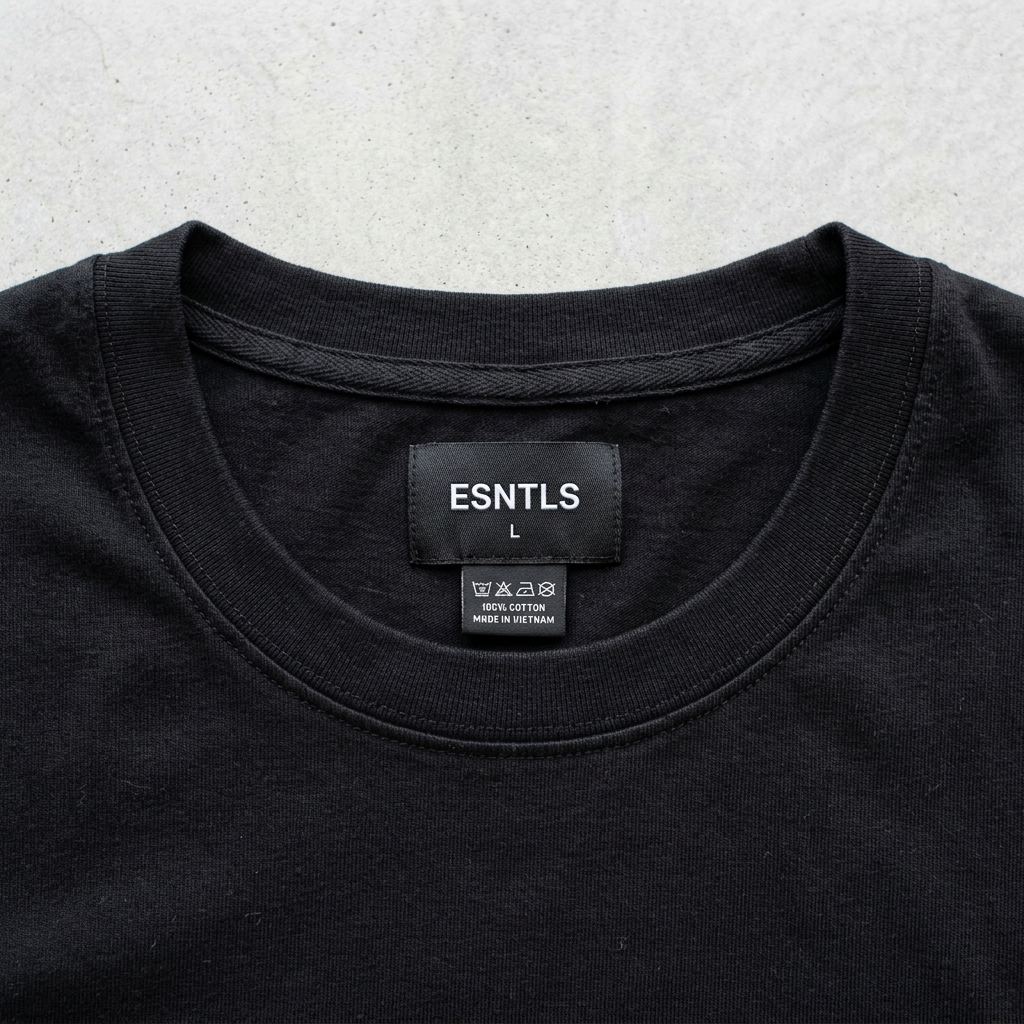
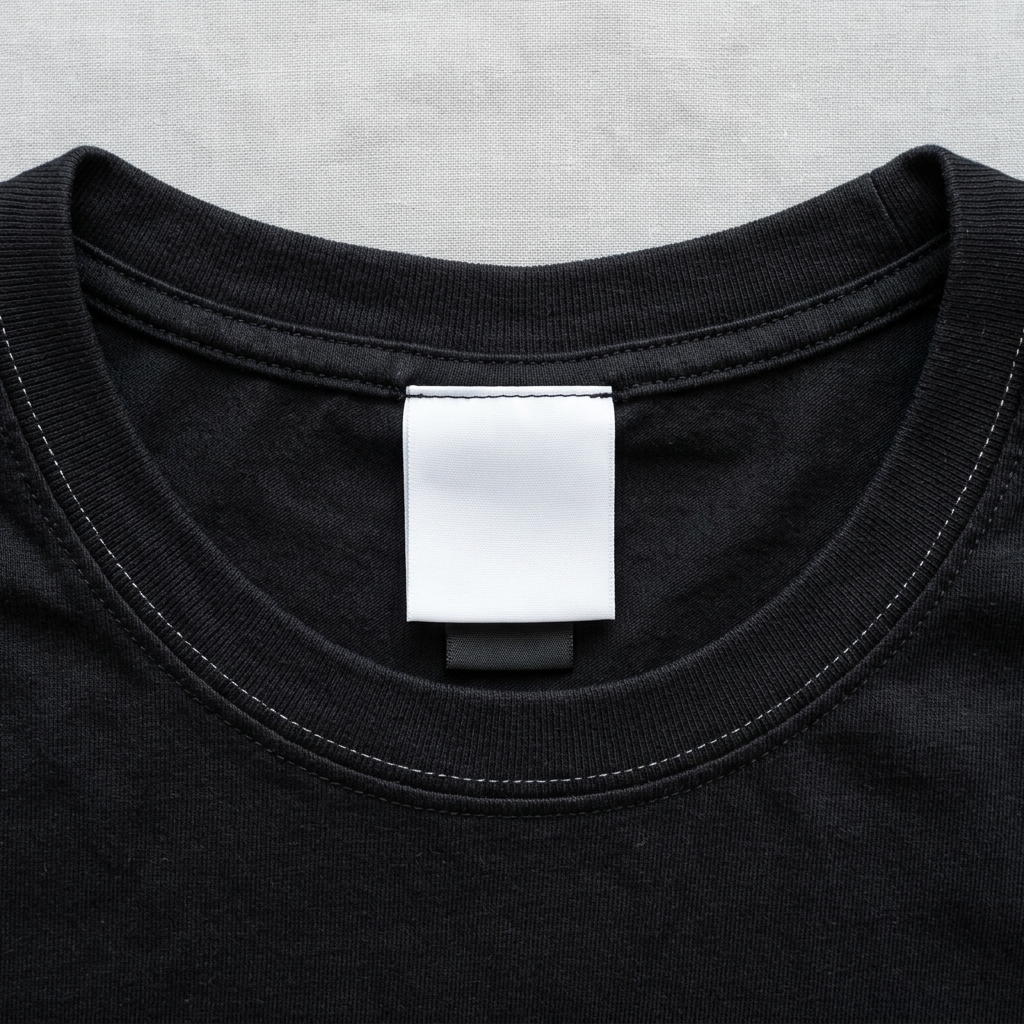
feat: Replace black t-shirt inner tag view with a prominent white tag for better design visibility

diff --git a/app_v2.js b/app_v2.js
@@ -711,7 +711,7 @@ document.addEventListener('DOMContentLoaded', () => {
                 container.querySelector('.base-shirt').src = `assets/${v.base}${suffix}.png`;
                 const maskedArea = container.querySelector('.masked-area');
                 if(maskedArea) {
-                    const maskUrl = `url('assets/${v.mask}${suffix}.png?v=18')`;
+                    const maskUrl = `url('assets/${v.mask}${suffix}.png?v=19')`;
                     maskedArea.style.maskImage = maskUrl;
                     maskedArea.style.webkitMaskImage = maskUrl;
                 }

diff --git a/process_tag.py b/process_tag.py
@@ -1,0 +1,29 @@
+import cv2
+import numpy as np
+import glob
+import shutil
+import rembg
+from PIL import Image
+import io
+
+brain_dir = '/Users/fds_2023_1/.gemini/antigravity/brain/a9dcbb1c-9e36-4eb9-ab73-db2c5b8d2201/'
+
+def extract_with_rembg(img_path, out_path):
+    with open(img_path, 'rb') as f:
+        input_data = f.read()
+    output_data = rembg.remove(input_data)
+    img = Image.open(io.BytesIO(output_data))
+    img_cv = np.array(img)
+    if img_cv.shape[2] == 4:
+        alpha = img_cv[:,:,3]
+        alpha = cv2.GaussianBlur(alpha, (15,15), 0)
+        _, alpha = cv2.threshold(alpha, 127, 255, cv2.THRESH_BINARY)
+        out = np.zeros_like(img_cv)
+        out[:,:,3] = alpha
+        cv2.imwrite(out_path, out)
+        print(f"rembg created mask {out_path}")
+
+tags = glob.glob(brain_dir + 'inner_tag_black_white_tag_*.png')
+if tags:
+    shutil.copy(tags[-1], 'assets/inner_tag_black.png')
+    extract_with_rembg('assets/inner_tag_black.png', 'assets/mask_inner_black.png')
